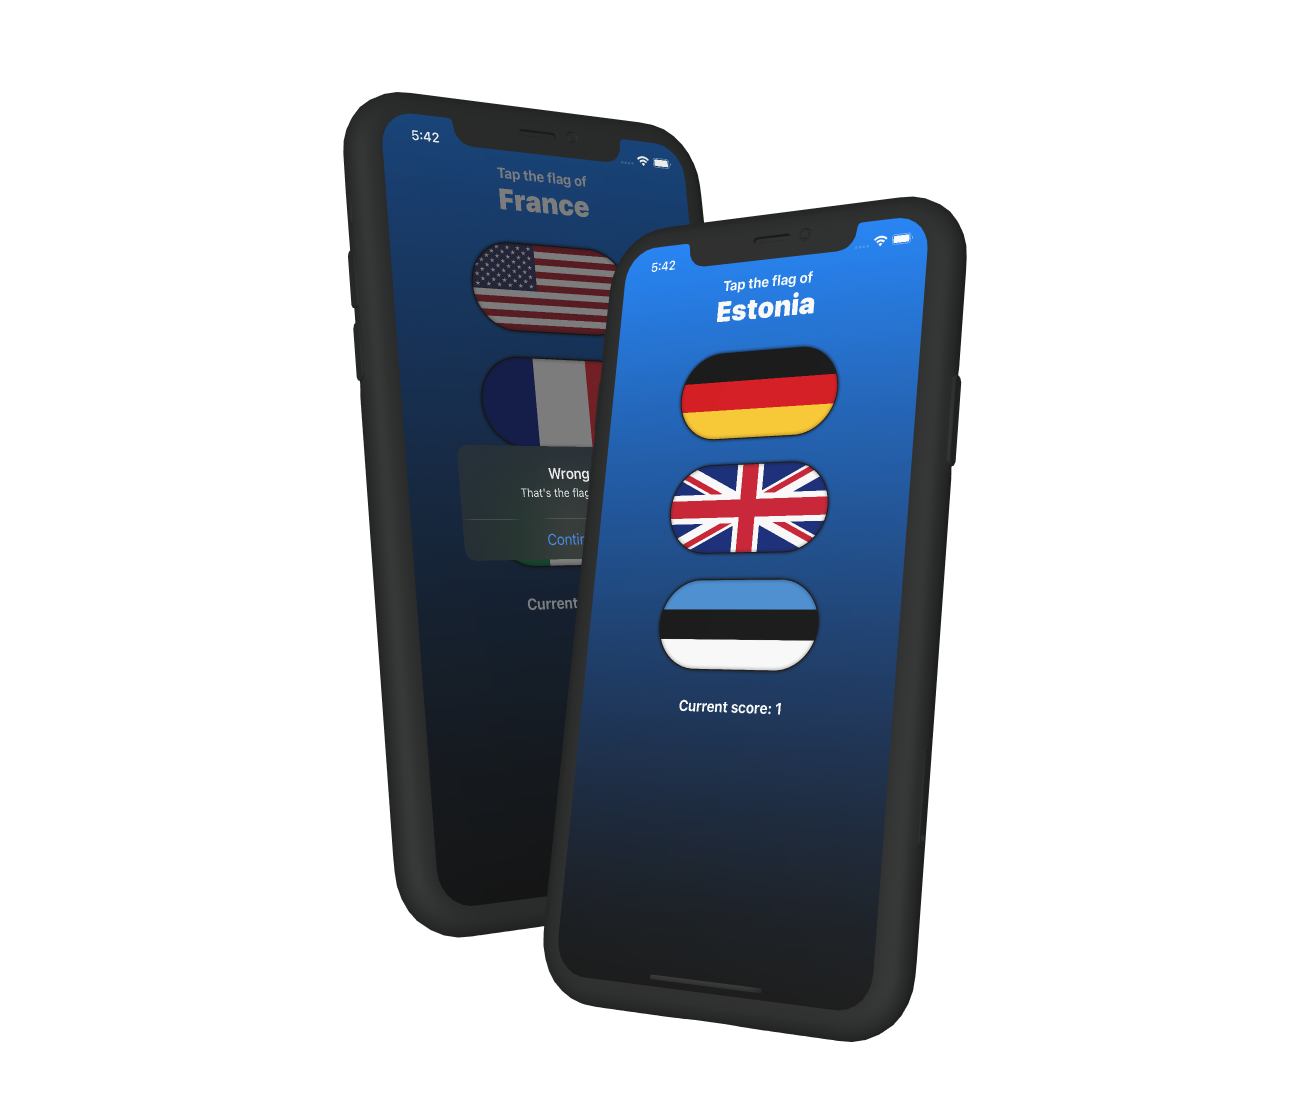
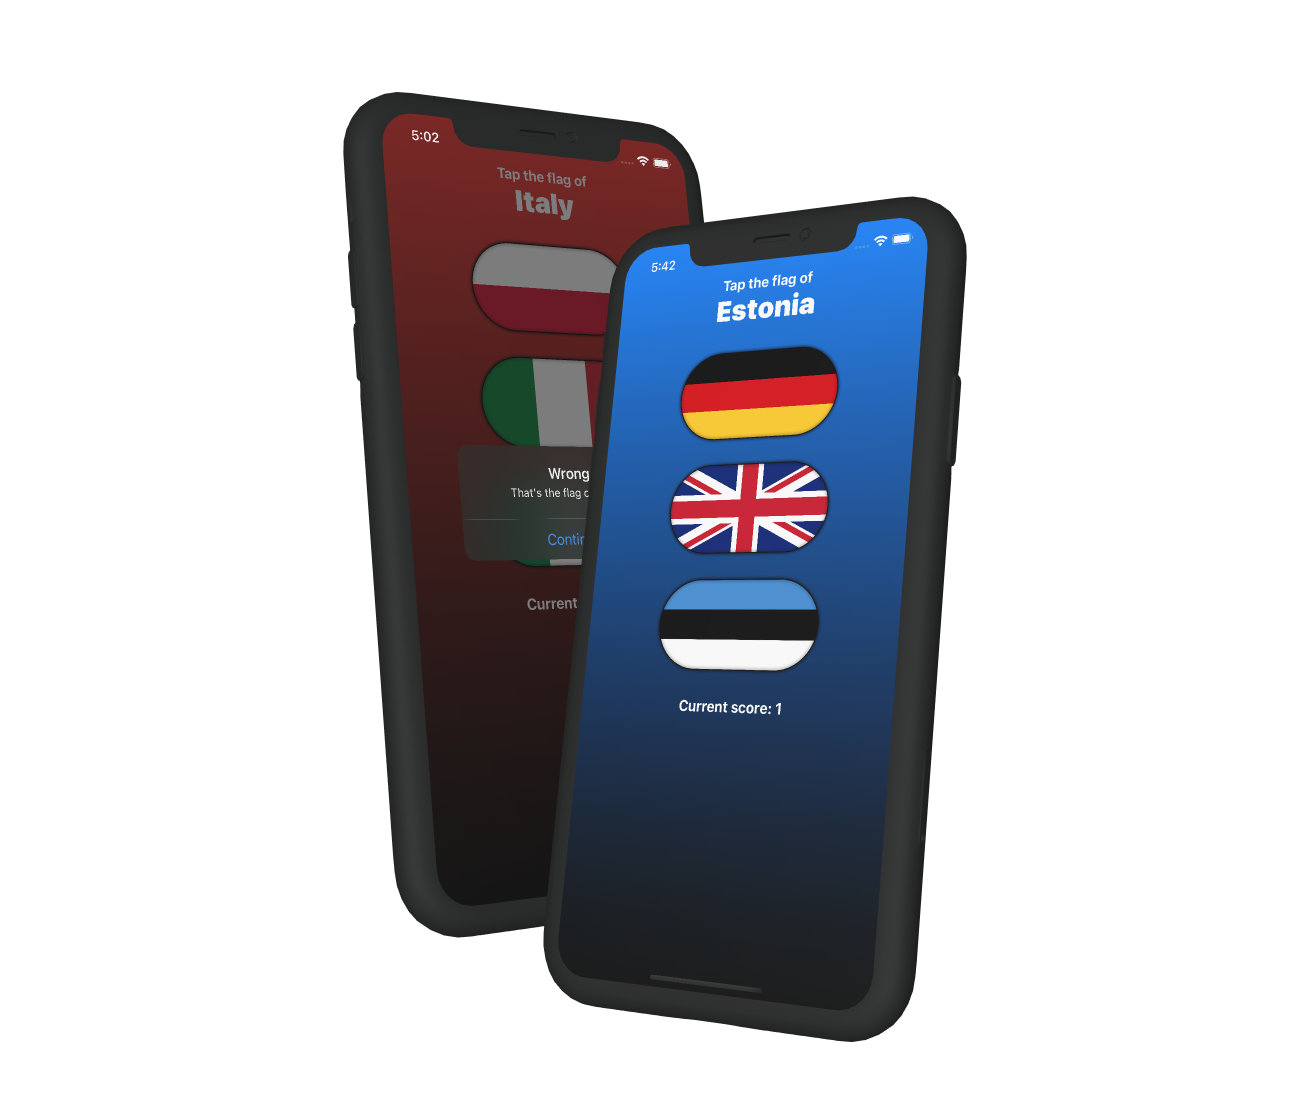
Added animation challenges to GuessTheFlag

Changed region(s): [[0.2748, 0.0923, 0.5496, 0.5846], [0.3969, 0.4308, 0.458, 0.4615]]

diff --git a/GuessTheFlag/GuessTheFlag/ContentView.swift b/GuessTheFlag/GuessTheFlag/ContentView.swift
@@ -9,18 +9,27 @@ import SwiftUI
 
 struct ContentView: View {
     
-    @State private var countries = ["Estonia", "France", "Germany", "Ireland", "Italy", "Nigeria", "Poland", "Russia", "Spain", "UK", "US"].shuffled()
-    @State private var correctAnswer = Int.random(in: 0...2)
+    @State private var countries: [String] = ["Estonia", "France", "Germany", "Ireland", "Italy", "Nigeria", "Poland", "Russia", "Spain", "UK", "US"].shuffled()
+    @State private var correctAnswer: Int = Int.random(in: 0...2)
     
-    @State private var showingScore = false
-    @State private var scoreTitle = ""
-    @State private var scoreMessage = ""
-    @State private var score = 0
+    @State private var showingScore: Bool = false
+    @State private var scoreTitle: String = ""
+    @State private var scoreMessage: String = ""
+    @State private var score: Int = 0
+    
+    @State private var rotate: [Double] = [0.0, 0.0, 0.0]
+    @State private var opacity: [Double] = [1.0, 1.0, 1.0]
+    @State private var backgroundWrong: Double = 0.0
     
     var body: some View {
         ZStack {
             LinearGradient(gradient: Gradient(colors: [Color.blue, Color.black]), startPoint: .top, endPoint: .bottom)
-                .edgesIgnoringSafeArea(/*@START_MENU_TOKEN@*/.all/*@END_MENU_TOKEN@*/)
+                .overlay(
+                    LinearGradient(gradient: Gradient(colors: [Color.red, Color.black]), startPoint: .top, endPoint: .bottom)
+                            .opacity(backgroundWrong)
+                )
+                .edgesIgnoringSafeArea(.all)
+                .animation(.default)
             
             VStack (spacing: 30) {
                 VStack {
@@ -38,9 +47,16 @@ struct ContentView: View {
                         self.flagTapped(number)
                     }) {
                         FlagImage(name: self.countries[number])
-
                     }
+                    .rotation3DEffect(
+                        .degrees(self.rotate[number]),
+                        axis: (x: 0.0, y: 1.0, z: 0.0)
+                        )
+                    .opacity(self.opacity[number])
+                    .animation(.default)
+                    
                 }
+ 
                 Text ("Current score: \(score)")
                     .foregroundColor(.white)
                     .fontWeight(/*@START_MENU_TOKEN@*/.bold/*@END_MENU_TOKEN@*/)
@@ -59,6 +75,10 @@ struct ContentView: View {
             score += 1
             scoreTitle = "Correct"
             scoreMessage = "Your score is \(score)"
+            rotate[number] += 360
+            for wrongFlags in 0 ..< 3 where wrongFlags != correctAnswer {
+                opacity[wrongFlags] = 0.25
+            }
         } else {
             if score <= 0 {
             // Do nothing
@@ -67,6 +87,7 @@ struct ContentView: View {
             }
             scoreTitle = "Wrong"
             scoreMessage = "That's the flag of \(countries[number])"
+            backgroundWrong = 1
         }
         showingScore = true
     }
@@ -74,17 +95,19 @@ struct ContentView: View {
     func askQuestion() {
         countries.shuffle()
         correctAnswer = Int.random(in: 0...2)
+        opacity = [1.0, 1.0, 1.0]
+        backgroundWrong = 0
     }
 }
 
 struct FlagImage: View {
     var name: String
     var body: some View {
-    Image(name)
-        .renderingMode(.original)
-        .clipShape(Capsule())
-        .overlay(Capsule().stroke(Color.black, lineWidth: 1))
-        .shadow(color: .black, radius: 2)
+        Image(name)
+            .renderingMode(.original)
+            .clipShape(Capsule())
+            .overlay(Capsule().stroke(Color.black, lineWidth: 1))
+            .shadow(color: .black, radius: 2)
     }
 }
 
